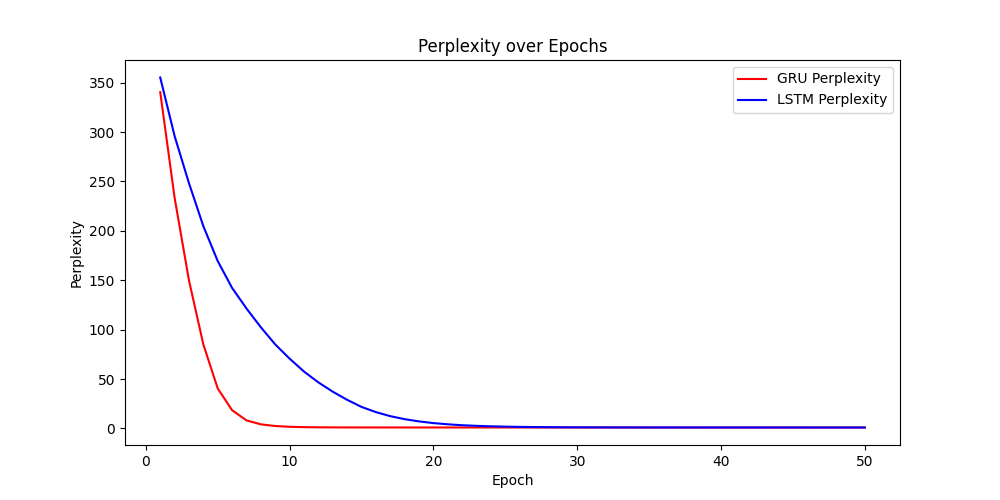
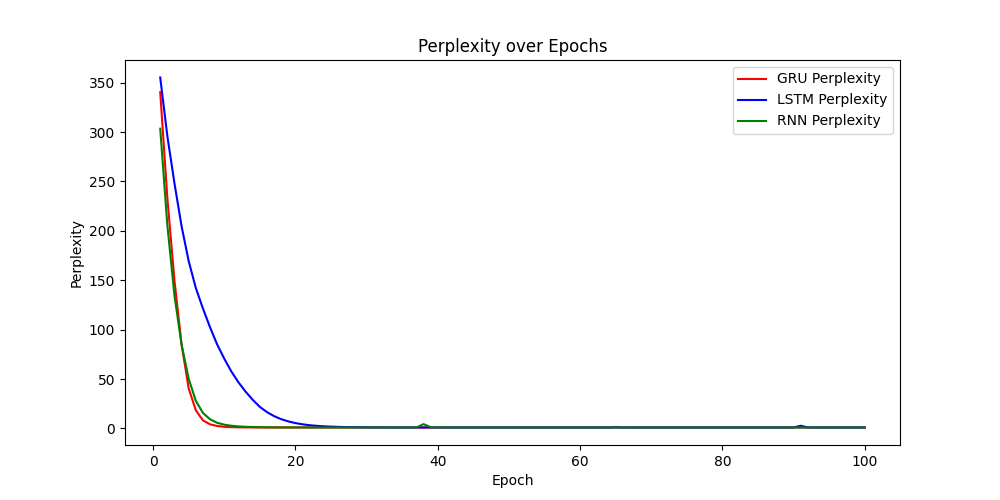
feat: add RNN into the chart

diff --git a/main.py b/main.py
@@ -34,15 +34,16 @@ if __name__ == '__main__':
                 dataset = checkpoint['dataloader'].dataset
                 model = configure_model.configure_model(network_type, dataset.vocab_size)
                 model.load_state_dict(checkpoint['model_state_dict'])
-                start_text = '春'
+                start_text = '自然语言处理'
                 generated_text = generate_text.generate_poetry(
                     model=model, start_text=start_text,
                     char_to_idx=dataset.char_to_idx,
                     idx_to_char=dataset.idx_to_char,
                     characters=5,
                     poetry_type=generate_text.PoetryType.quatrain,
-                    max_attempts=2000
+                    max_attempts=2000,
+                    enable_acrostic=True
                 )
                 print(generated_text)
             case '3':
-                draw_log_pic.draw_log_chart('gru_log.csv', 'lstm_log.csv')
+                draw_log_pic.draw_log_chart('gru_log.csv', 'lstm_log.csv', 'rnn_log.csv')
